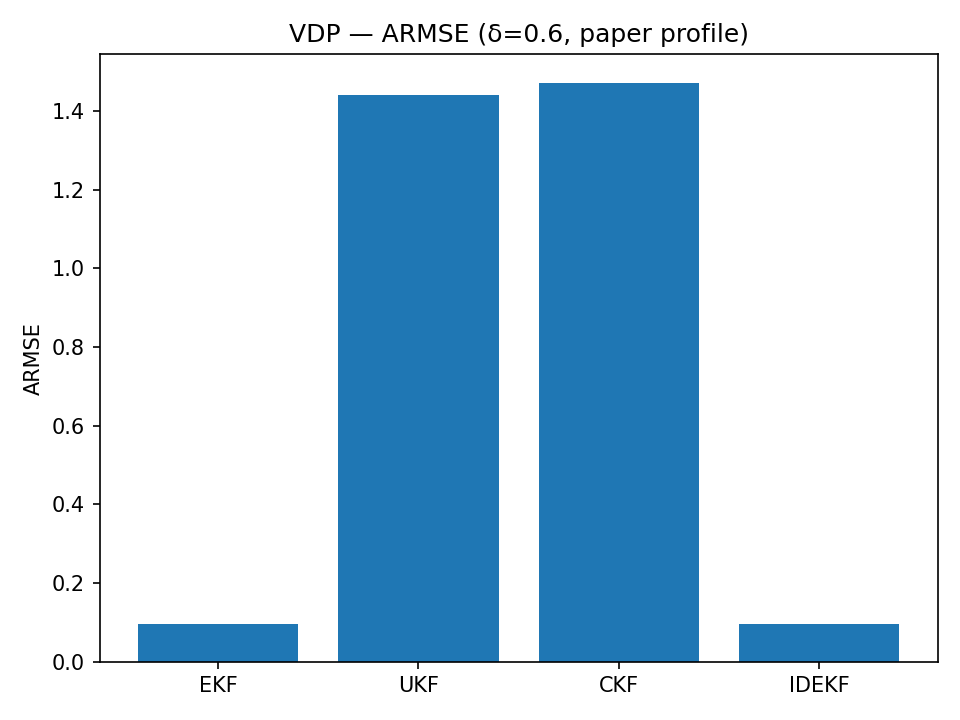
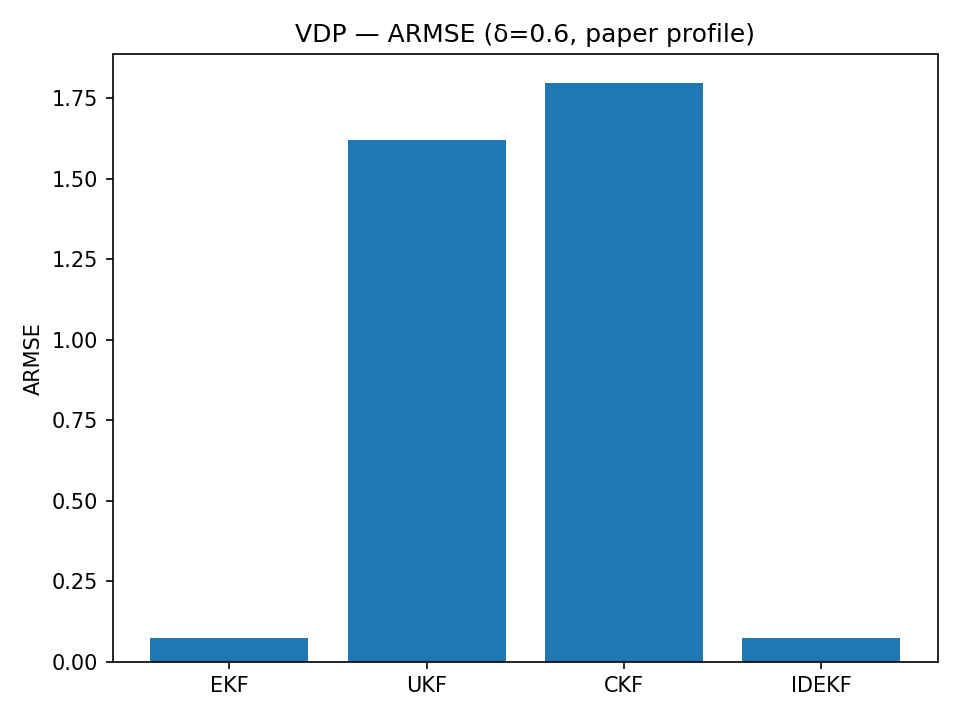
edits

diff --git a/run_armse.py b/run_armse.py
@@ -205,7 +205,7 @@ if __name__ == "__main__":
     parser.add_argument("--runs", type=int, default=3)          
     parser.add_argument("--seed", type=int, default=1)
     parser.add_argument("--outdir", type=str, default="results")
-    deltas = [0.6]
+    deltas = [0.8]
     parser.add_argument("--deltas", type=float, nargs="*", default=deltas)
     parser.add_argument("--profile", choices=["paper"], default="paper")
     args = parser.parse_args()
